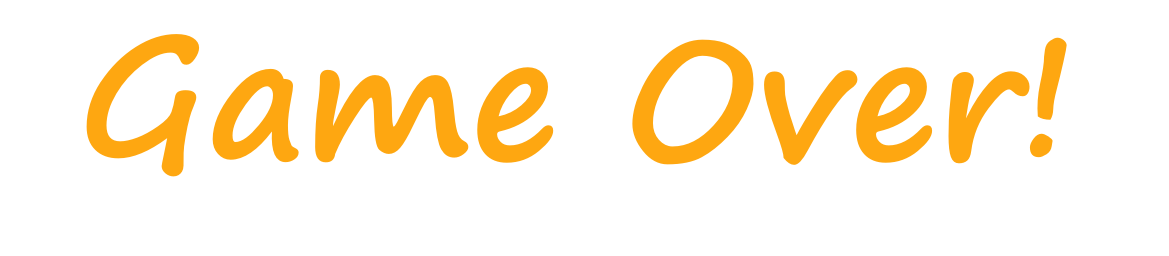
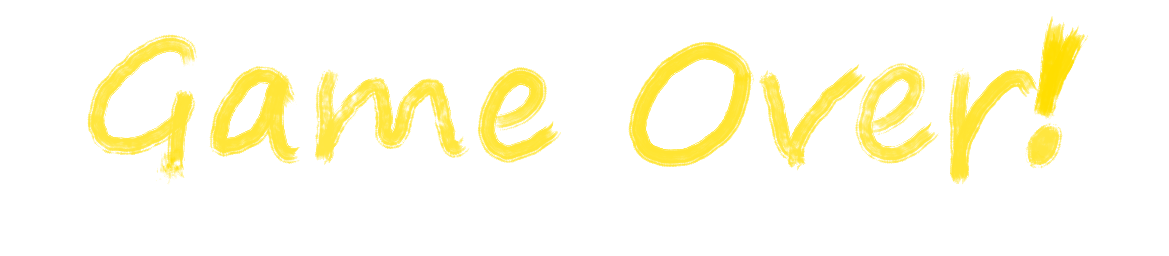
new gameover

Changed region(s): [[0.5235, 0.0938, 0.9547, 0.7188], [0.0616, 0.125, 0.4927, 0.6875]]

diff --git a/game/ChickenWings.cpp b/game/ChickenWings.cpp
@@ -13,7 +13,7 @@ ChickenWings::ChickenWings(std::string name)
 void ChickenWings::StartUp() {
 	minecart = std::make_unique<Minecart>();
 
-	contactListener = std::make_unique<ContactListener>(*minecart,obstacles);
+	contactListener = std::make_unique<ContactListener>(*minecart, obstacles);
 	world.SetContactListener(contactListener.get());
 
 	gameOverQuad = uiManager.CreateQuad(std::make_shared < Texture>("GameOver.png"));
@@ -70,12 +70,16 @@ void ChickenWings::StartUp() {
 	}
 
 	coinIcon = uiManager.CreateQuad(std::make_shared<Texture>("chickencoin.png"));
-	coinIcon->scale = { 0.66f, 0.66f };
-	coinIcon->position = { 7.5,4 };
 	scoreNumberR = numberManager.CreateNumber();
-	scoreNumberR->SetPos(coinIcon->position - glm::vec2(0.74,0));
-	scoreNumberR->SetScale(coinIcon->scale);
-	scoreNumberR->SetPadding(0.8f);
+	SetScorePosAndScale({ 7.5,4 }, 0.66f, false);
+	constexpr float fadeInEndScale = 1.5f;
+	fadeInAnimSpline.addNextPoint({ -0.2,0 });
+	fadeInAnimSpline.addNextPoint({ -0.1,0 });
+	fadeInAnimSpline.addNextPoint({ 0,0 });
+	fadeInAnimSpline.addNextPoint({ 0.6, fadeInEndScale });
+	fadeInAnimSpline.addNextPoint({ 1.f, fadeInEndScale });
+	fadeInAnimSpline.addNextPoint({ 1.1, fadeInEndScale });
+	fadeInAnimSpline.addNextPoint({ 1.2, fadeInEndScale });
 }
 
 void ChickenWings::ResetGame() {
@@ -90,6 +94,8 @@ void ChickenWings::ResetGame() {
 		lanterns[i].quad->position.y = spline->sampleHight(lanterns[i].quad->position.x) + 1.2f;
 		lanterns[i].light->lightPos = lanterns[i].quad->position;
 	}
+
+	SetScorePosAndScale({ 7.5,4 }, 0.66f, false);
 
 	minecart->reset();
 }
@@ -148,7 +154,9 @@ void ChickenWings::Update()
 
 
 	if (isGameOver) {
-		gameOverQuad->draw = true;
+		AnimateGameOver();
+		gameOverTime += deltaTime();
+
 		if (glfwGetKey(ChickenWings::game.window, GLFW_KEY_SPACE)) {
 			ResetGame();
 		}
@@ -199,10 +207,57 @@ void ChickenWings::GenerateNextPointOnSpline()
 }
 
 void ChickenWings::StopGame() {
+	if (isGameOver != true) {
+		gameOverTime = 0.f;
+	}
 	isGameOver = true;
+}
+
+void ChickenWings::AnimateGameOver()
+{
+	gameOverQuad->draw = true;
+
+	constexpr float screenAnimTime = 0.5f;
+	if (gameOverTime < screenAnimTime) {
+		float t = gameOverTime / screenAnimTime;
+		gameOverQuad->scale = glm::vec2(10, 3) * glm::smoothstep(0.2f, 1.f, t);
+	}
+	else {
+		gameOverQuad->scale = glm::vec2(10, 3);
+	}
+	constexpr float scoreFadeOutTime = 0.4f;
+	constexpr float scoreFadeInTime = 0.4;
+	if (gameOverTime < scoreFadeOutTime) {
+		float t = gameOverTime / scoreFadeOutTime;
+		float bonusX = (scoreNumberR->GetWidth() + 2.f) *  glm::smoothstep(0.f, 1.f, t);
+		SetScorePosAndScale({ 7.5 + bonusX,4 }, 0.66f, false);
+	}
+	else if (gameOverTime < scoreFadeInTime + scoreFadeOutTime) {
+		float t = (gameOverTime - scoreFadeOutTime) / scoreFadeInTime;
+		float s = fadeInAnimSpline.sampleHight(t);
+		std::cout << "t " << t << " s " << s << std::endl;
+		SetScorePosAndScale({ 0, -1.5f }, fadeInAnimSpline.sampleHight(t), true);
+	}
+	else {
+		SetScorePosAndScale({ 0, -1.5f }, 1.5f, true);
+	}
 }
 
 uint32_t ChickenWings::Score()
 {
 	return meterScore + bounsScore;
+}
+
+void ChickenWings::SetScorePosAndScale(const glm::vec2& pos, const float& scale, bool centered)
+{
+	constexpr float padding = 0.8f;
+	coinIcon->scale = glm::vec2(scale);
+	coinIcon->position = pos;
+	if (centered) {
+		coinIcon->position.x += padding * 0.5f * scale * glm::floor(std::log10(Score()) + 1);
+	}
+	scoreNumberR->SetPos(pos - glm::vec2(0.74, 0));
+	scoreNumberR->SetScale(coinIcon->scale);
+	scoreNumberR->SetPadding(padding);
+	scoreNumberR->SetCentered(centered);
 }

diff --git a/engine/NumberManager.cpp b/engine/NumberManager.cpp
@@ -1,6 +1,11 @@
 #include "NumberManager.h"
 
 
+float Number::GetWidth() const
+{
+	return width_;
+}
+
 uint32_t Number::GetNumber() const
 {
 	return num_;
@@ -15,18 +20,32 @@ void Number::SetNumber(const uint32_t& num)
 }
 
 void Number::SetPos(const glm::vec2& pos) {
+	if (pos_ != pos) {
+		dirty_ = true;
+	}
 	pos_ = pos;
-	dirty_ = true;
 }
 
 void Number::SetScale(const glm::vec2& scale) {
+	if (scale_ != scale) {
+		dirty_ = true;
+	}
 	scale_ = scale;
-	dirty_ = true;
 }
 
 void Number::SetPadding(const float& padding) {
+	if (padding_ != padding) {
+		dirty_ = true;
+	}
 	padding_ = padding;
-	dirty_ = true;
+}
+
+void Number::SetCentered(const bool centered)
+{
+	if (centered_ != centered) {
+		dirty_ = true;
+	}
+	centered_ = centered;
 }
 
 void NumberManager::Initialize(QuadManager* uiQuadManager)
@@ -83,10 +102,15 @@ void NumberManager::Update()
 		}
 
 		// set digit textures and pos and co
+		float constantOffsetX = 0.f;
+		number->width_ = number->padding_* number->scale_.x* (digits.size() - 1);
+		if (number->centered_) {
+			constantOffsetX = number->width_ * 0.5f;
+		}
 		for (size_t d = 0; d < digits.size(); d++)
 		{
 			const float xOffset = number->padding_ * number->scale_.x * d;
-			number->quads_[d]->position = number->pos_ - glm::vec2(xOffset, 0);
+			number->quads_[d]->position = number->pos_ + glm::vec2(constantOffsetX - xOffset, 0);
 			number->quads_[d]->scale = number->scale_;
 			number->quads_[d]->uvTile = digits[d];
 

diff --git a/engine/include/NumberManager.h b/engine/include/NumberManager.h
@@ -5,21 +5,25 @@
 class NumberManager;
 
 struct Number {
+	float GetWidth() const;
 	uint32_t GetNumber() const;
 	void SetNumber(const uint32_t& num);
 	void SetPos(const glm::vec2& pos);
 	void SetScale(const glm::vec2& scale);
 	void SetPadding(const float& padding);
+	void SetCentered(const bool centered);
 private:
 	friend NumberManager;
 	Number() = default;
 
 	uint32_t num_ = 0;
 
+	bool centered_ = false;
 	float padding_ = 0.5f;
 	glm::vec2 pos_ = glm::vec2(0, 0);
 	glm::vec2 scale_ = glm::vec2(1, 1);
 
+	float width_ = 0.f;
 	bool dirty_ = true;
 
 	std::vector< std::shared_ptr<Quad>> quads_ = {};

diff --git a/game/ChickenWings.h b/game/ChickenWings.h
@@ -21,9 +21,12 @@ public:
 	std::shared_ptr<Spline> spline;
 
 	bool isGameOver = false;
-
 	
 private:
+	float gameOverTime = 0.f;
+	Spline fadeInAnimSpline;
+	void AnimateGameOver();
+
 	uint32_t Score();
 	uint32_t bounsScore = 0;
 	uint32_t meterScore = 0;
@@ -39,6 +42,7 @@ private:
 	std::unique_ptr<SplineRenderer> splineRendererB;
 	std::unique_ptr<SplineRenderer> splineRendererL;
 
+	void SetScorePosAndScale(const glm::vec2& pos, const float& scale, bool centered);
 	std::shared_ptr<Quad>   coinIcon;
 	std::shared_ptr<Number> scoreNumberR;
 
